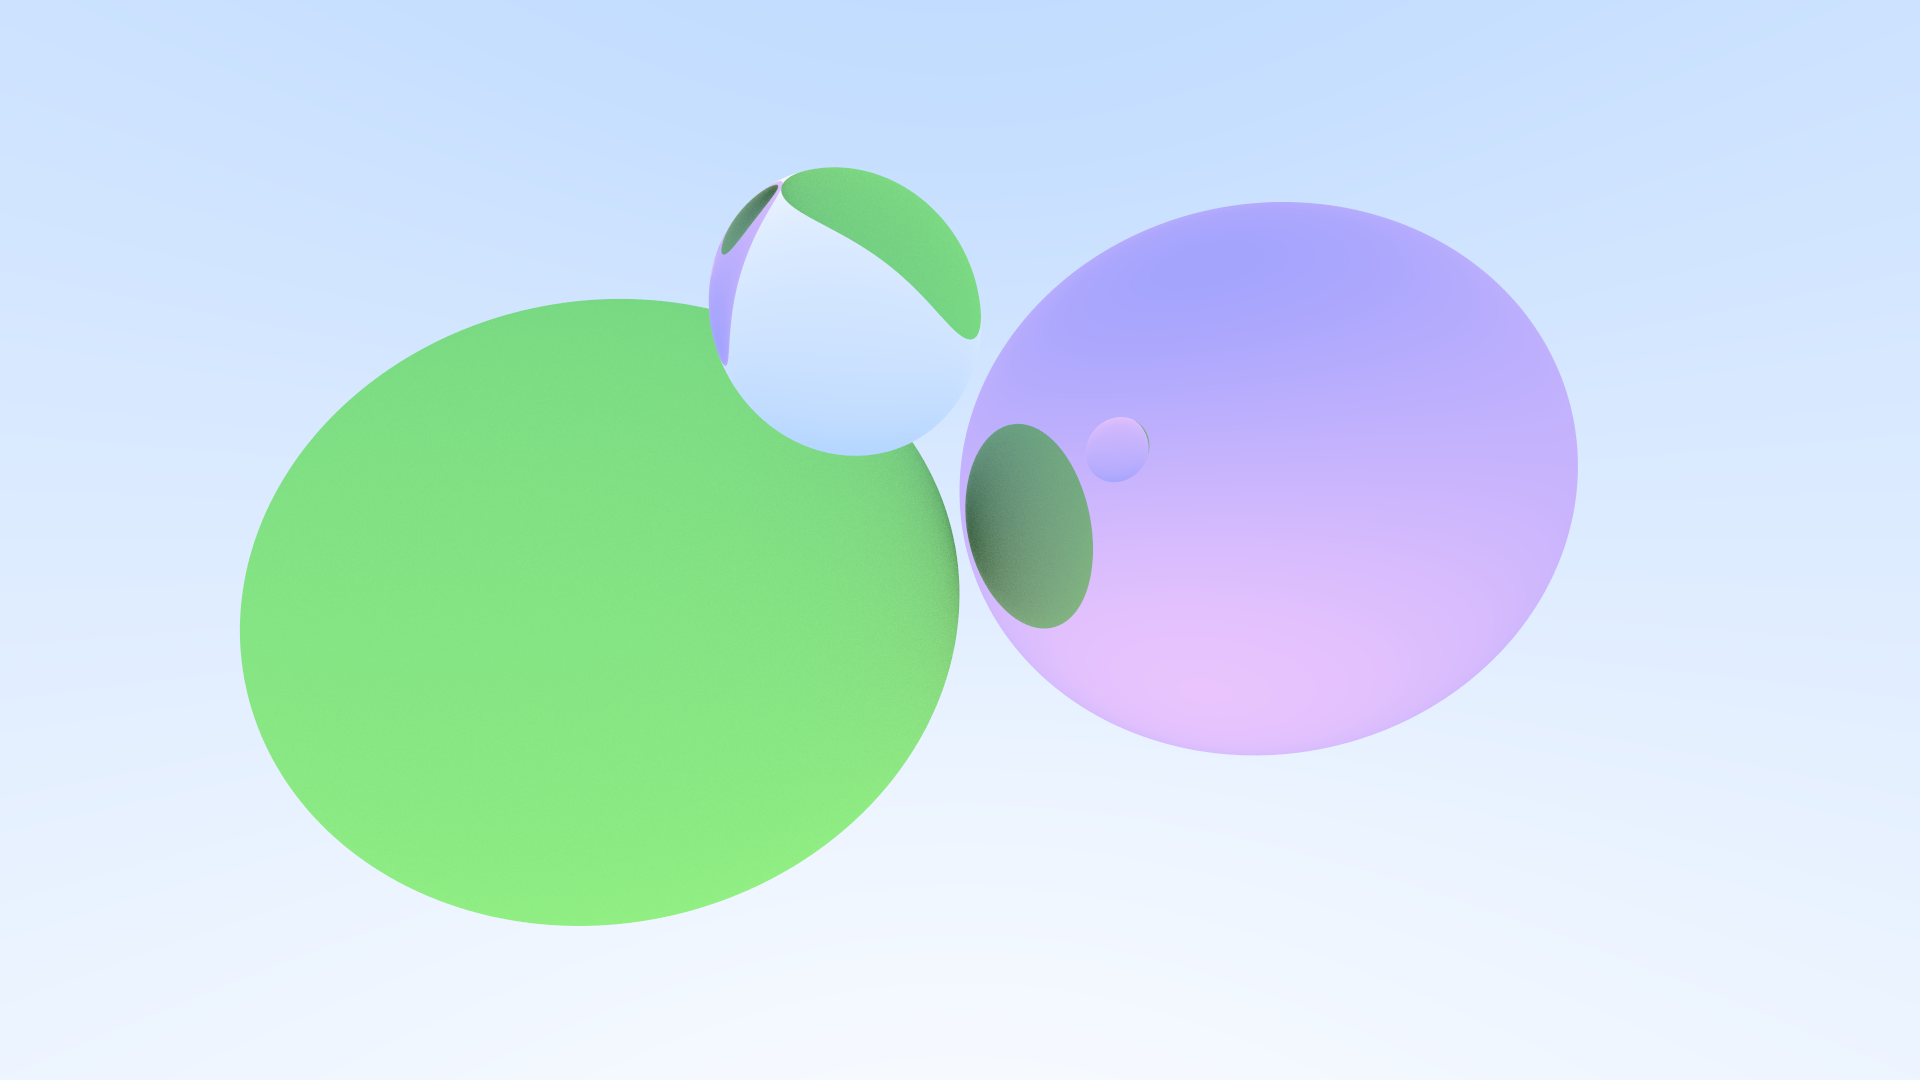
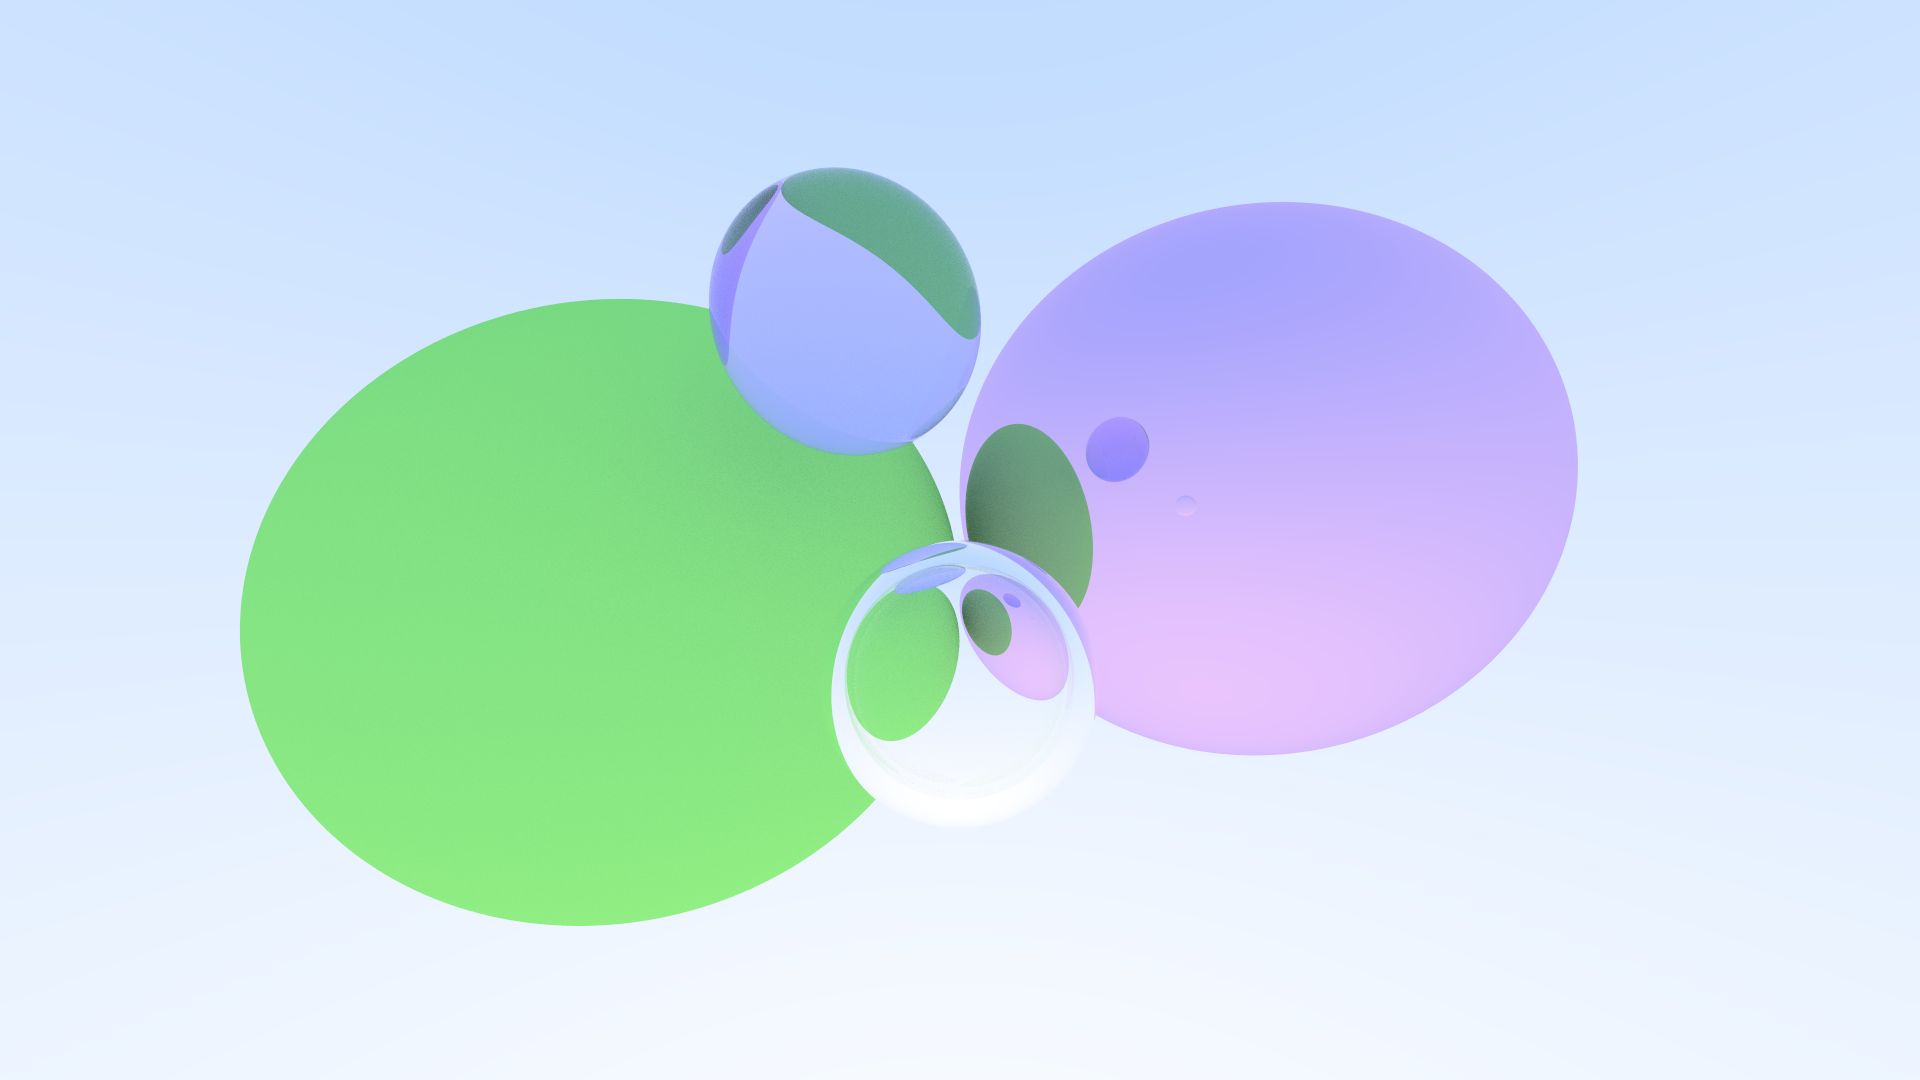
dielectric & hollow dielectric (snell's with total internal reflection and Schlick approximation

Changed region(s): [[0.375, 0.1528, 0.5312, 0.4278], [0.4062, 0.4889, 0.5938, 0.7333], [0.5625, 0.3667, 0.625, 0.4583]]

diff --git a/src/Materials/Dielectric.cpp b/src/Materials/Dielectric.cpp
@@ -5,7 +5,25 @@ bool USE_NAMESPACE(dielectric)::scatter(const Ray& r_in, const hit_record& rec, 
 	attenuation = albedo;
 	double ref_ratio = rec.front_face ? (1.0 / index_refraction) : index_refraction;
 	vec3 unit_direction = r_in.direction().normalized();
-	vec3 refracted = refract(unit_direction, rec.normal, ref_ratio);
-	scattered = Ray(rec.p, refracted);
+	double cos_theta = fmin(dot(-unit_direction, rec.normal), 1.0);
+	double sin_theta = sqrt(1.0 - cos_theta * cos_theta);
+	bool cannot_refract = ref_ratio * sin_theta > 1.0;
+	vec3 direction;
+	if (cannot_refract || reflectance(cos_theta, ref_ratio)>random_double())
+	{
+		direction = reflect(unit_direction, rec.normal);
+	}
+	else
+	{
+		direction = refract(unit_direction, rec.normal, ref_ratio);
+	}
+	scattered = Ray(rec.p, direction);
 	return true;
+}
+
+double USE_NAMESPACE(dielectric)::reflectance(double cosine, double ref_idx)
+{
+	auto r0 = (1 - ref_idx) / (1 + ref_idx);
+	r0 = r0 * r0;
+	return r0 + (1 - r0) * pow((1 - cosine), 5);
 }

diff --git a/src/RTOneWeekend.cpp b/src/RTOneWeekend.cpp
@@ -61,15 +61,22 @@ int main_rt()
 	const int max_depth = 50;
 	//world 
 	hittable_list world;
+	//a simple greenish sphere
 	vec3 center(-0.5, -0.1, -1.0);
 	Sphere s(center, 0.5, make_shared<lambertian>(RGBColor(93./255,240./255,67./255)));
 	world.add(std::make_shared<Sphere>(s));
+	//purple metal sphere
 	vec3 center2(0.5, 0.1, -1.1);
 	Sphere s2(center2, 0.5, make_shared<metal>(RGBColor(0.83, 0.59, 0.98)));
 	world.add(std::make_shared<Sphere>(s2));
+	//full glass sphere
 	vec3 center3(-0.1, 0.2, -0.5);
-	Sphere s3(center3, 0.12, make_shared<dielectric>(RGBColor(1,1,1),1.5));
+	Sphere s3(center3, 0.12, make_shared<dielectric>(RGBColor(0.8,0.8,1),1.5));
 	world.add(std::make_shared<Sphere>(s3));
+	//hollow glass sphere (the trick is using a negative radius to flip the normals)
+	vec3 center4(0, -0.05, -0.2);
+	Sphere s4(center4, -0.05, make_shared<dielectric>(RGBColor(1, 1, 1), 1.2));
+	world.add(std::make_shared<Sphere>(s4));
 	//camera
 	camera cam(90, aspect_ratio);
 

diff --git a/src/Materials/Dielectric.h b/src/Materials/Dielectric.h
@@ -9,5 +9,7 @@ public:
 public:
 	RGBColor albedo;
 	double index_refraction;
+private:
+	static double reflectance(double cosine, double ref_idx);
 };
 END_NAMESPACE
